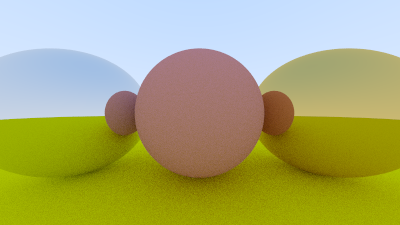
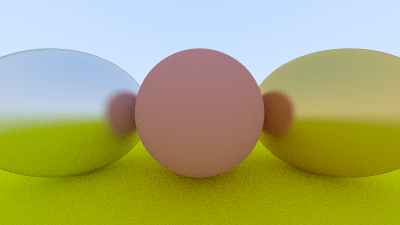
Fuzzy Reflection and fix a issue in pre commit

Changed region(s): [[0.0, 0.3733, 0.36, 0.6222], [0.72, 0.4356, 1.0, 0.5911], [0.66, 0.4044, 0.72, 0.4356]]

diff --git a/src/main.rs b/src/main.rs
@@ -21,7 +21,6 @@ pub fn ray_color(ray: &Ray, world: &HittableList, depth: usize) -> Vec3 {
     if depth == 0 {
         return Vec3(0.0, 0.0, 0.0);
     }
-    const WHITE: Vec3 = Vec3(1.0, 1.0, 1.0);
 
     let result = world.hit(0.001, f32::MAX, ray);
     if let Some(mut rec) = result {
@@ -30,9 +29,10 @@ pub fn ray_color(ray: &Ray, world: &HittableList, depth: usize) -> Vec3 {
         return if let Some(scattered) = material.scatter(&ray, &rec) {
             scattered.attenuation * ray_color(&scattered.ray, &world, depth - 1)
         } else {
-            WHITE
+            Vec3(0.0, 0.0, 0.0)
         };
     }
+    const WHITE: Vec3 = Vec3(1.0, 1.0, 1.0);
     const SKY_BLUE: Vec3 = Vec3(0.5, 0.7, 1.0);
     let unit_direction = ray.direction.to_unit_vector();
     let t = 0.5 * (unit_direction.y() + 1.0);
@@ -51,8 +51,8 @@ fn main() {
     let mut world = HittableList::new();
     let material_ground = Rc::new(Lambertian::new(Vec3(0.8, 0.8, 0.0)));
     let material_center = Rc::new(Lambertian::new(Vec3(0.7, 0.3, 0.3)));
-    let material_left = Rc::new(Metal::new(Vec3(0.8, 0.8, 0.8)));
-    let material_right = Rc::new(Metal::new(Vec3(0.8, 0.6, 0.2)));
+    let material_left = Rc::new(Metal::new(Vec3(0.8, 0.8, 0.8), 0.3));
+    let material_right = Rc::new(Metal::new(Vec3(0.8, 0.6, 0.2), 0.2));
 
     world.add(Box::new(Sphere {
         center: Vec3(0.0, -100.5, -1.0),

diff --git a/src/materials.rs b/src/materials.rs
@@ -46,11 +46,15 @@ impl Material for Lambertian {
 pub struct Metal {
     // 反射率
     pub albedo: Vec3,
+    pub fuzz: f32,
 }
 
 impl Metal {
-    pub fn new(color: Vec3) -> Metal {
-        Metal { albedo: color }
+    pub fn new(color: Vec3, f: f32) -> Metal {
+        Metal {
+            albedo: color,
+            fuzz: if f < 1.0 { f } else { 1.0 },
+        }
     }
 }
 
@@ -59,7 +63,7 @@ impl Material for Metal {
         let reflected = Vec3::reflect(&r_in.direction.to_unit_vector(), &rec.normal.unwrap());
         let scattered = Ray {
             origin: rec.p,
-            direction: reflected,
+            direction: reflected + self.fuzz * Vec3::rand_in_unit_sphere(),
         };
         let same_direction = scattered.direction.dot(rec.normal.unwrap()) > 0.0;
         if same_direction {
